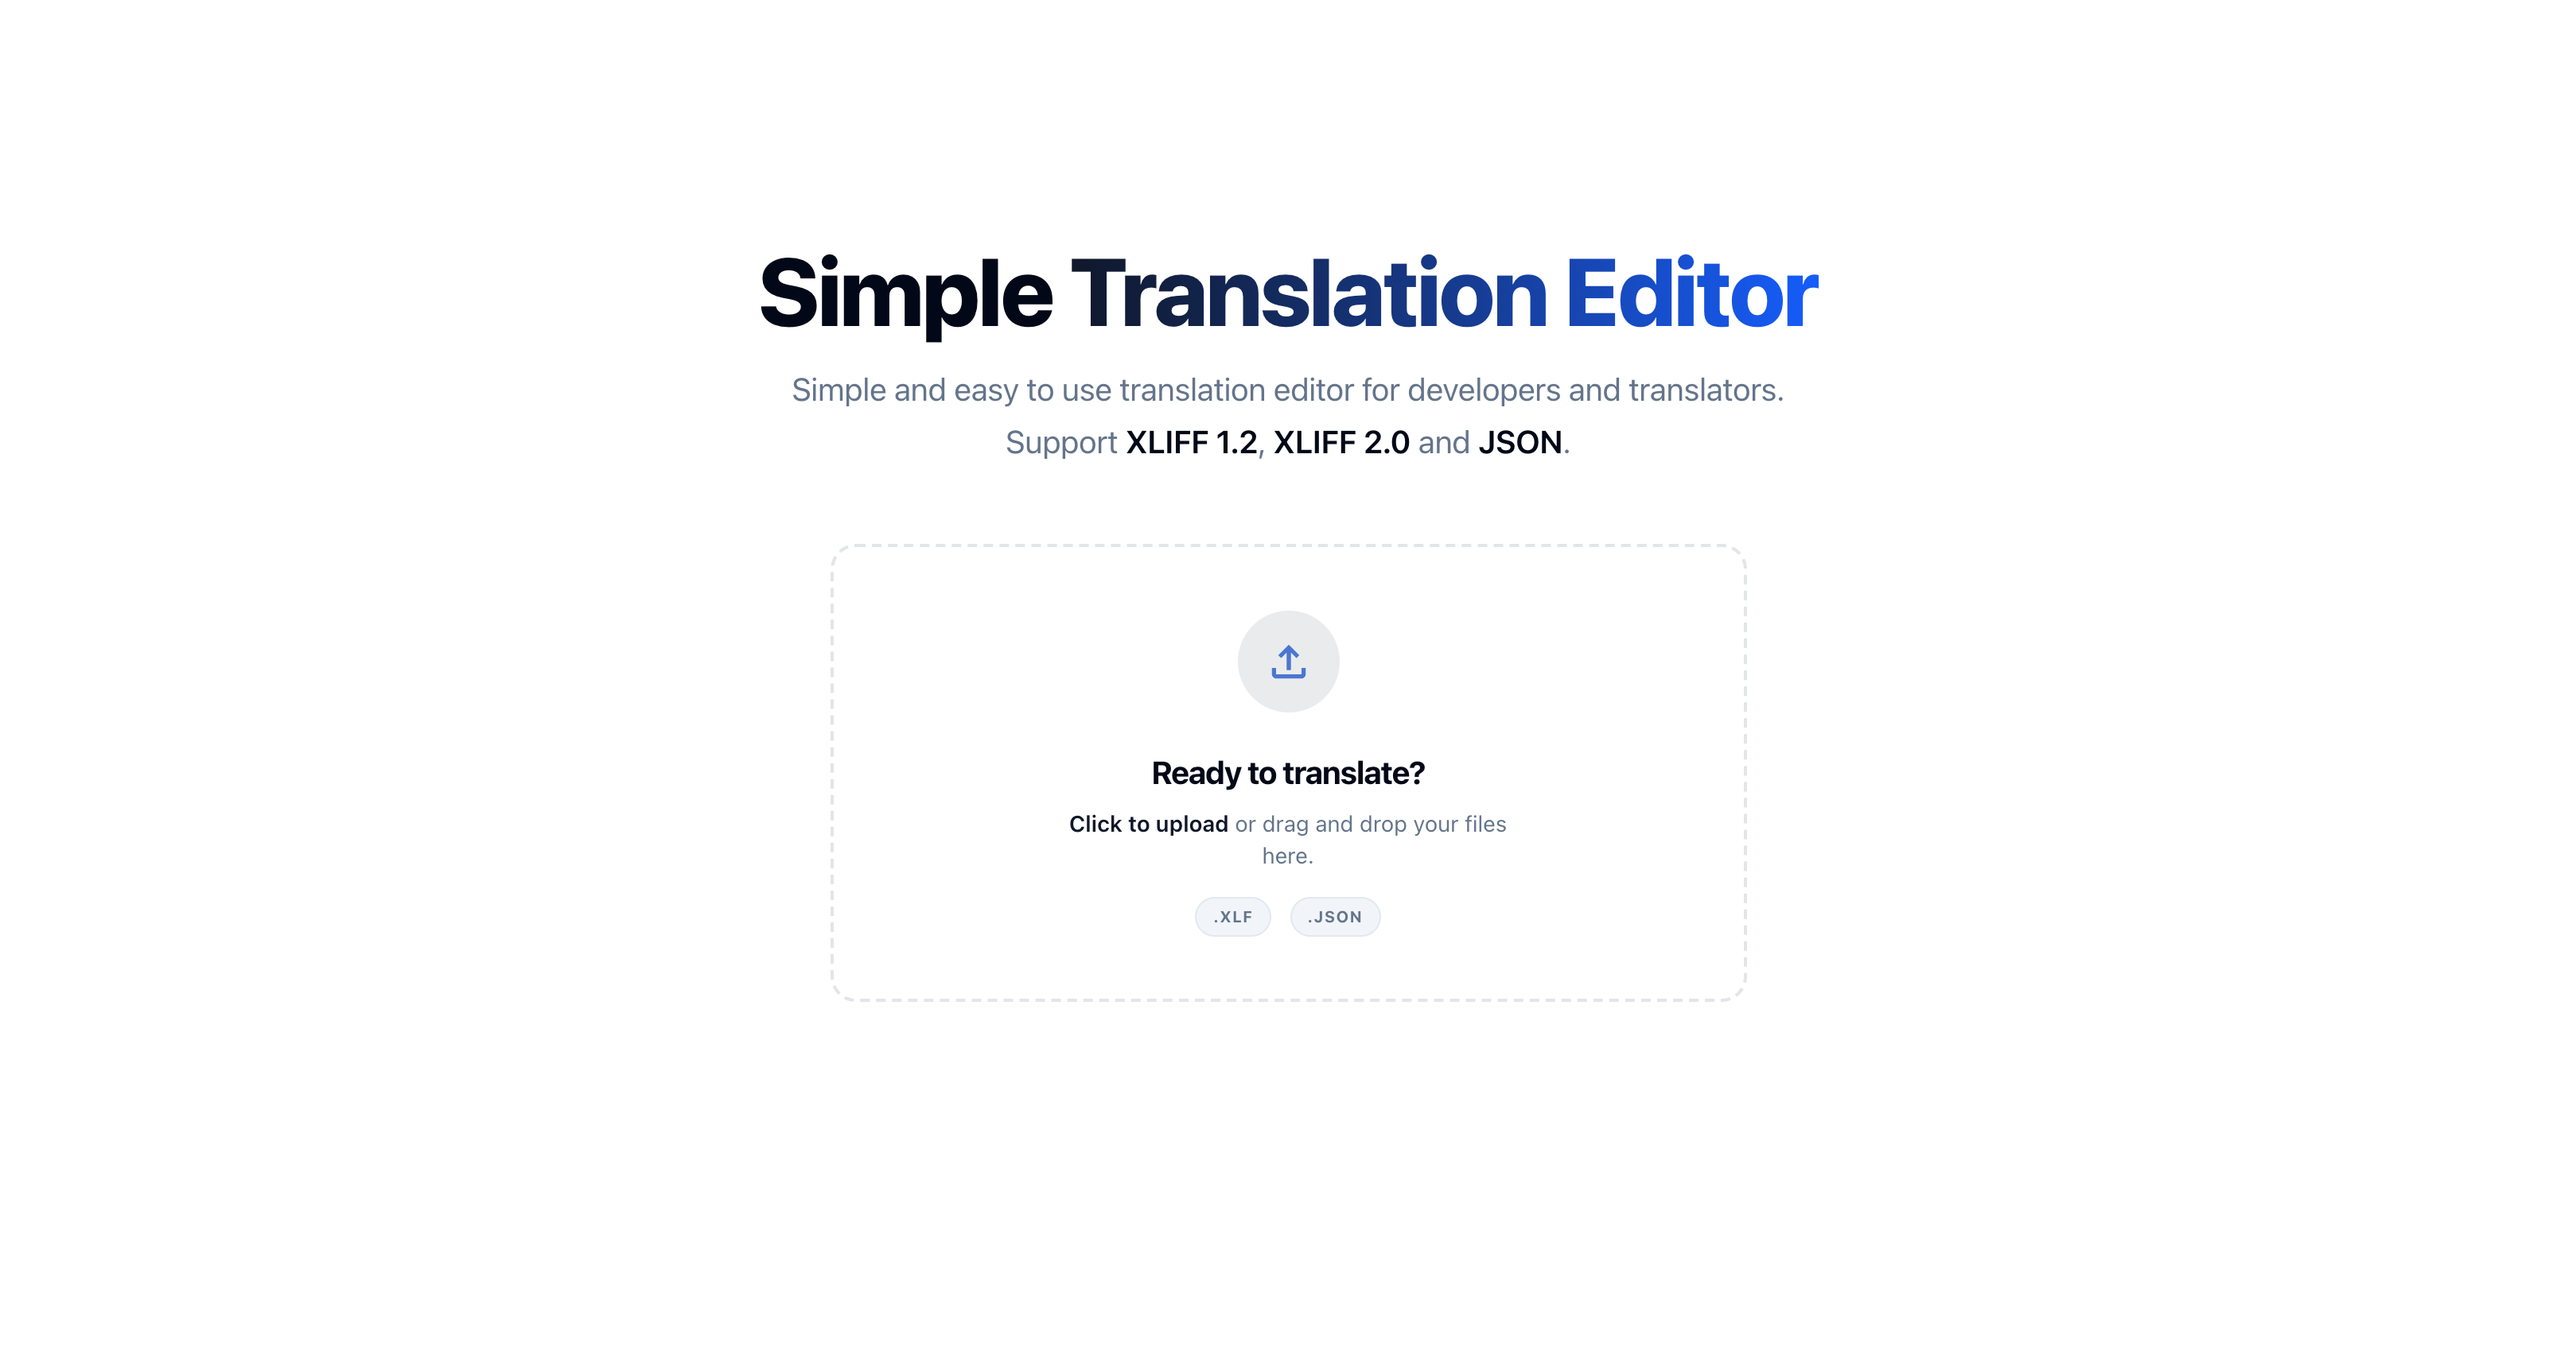
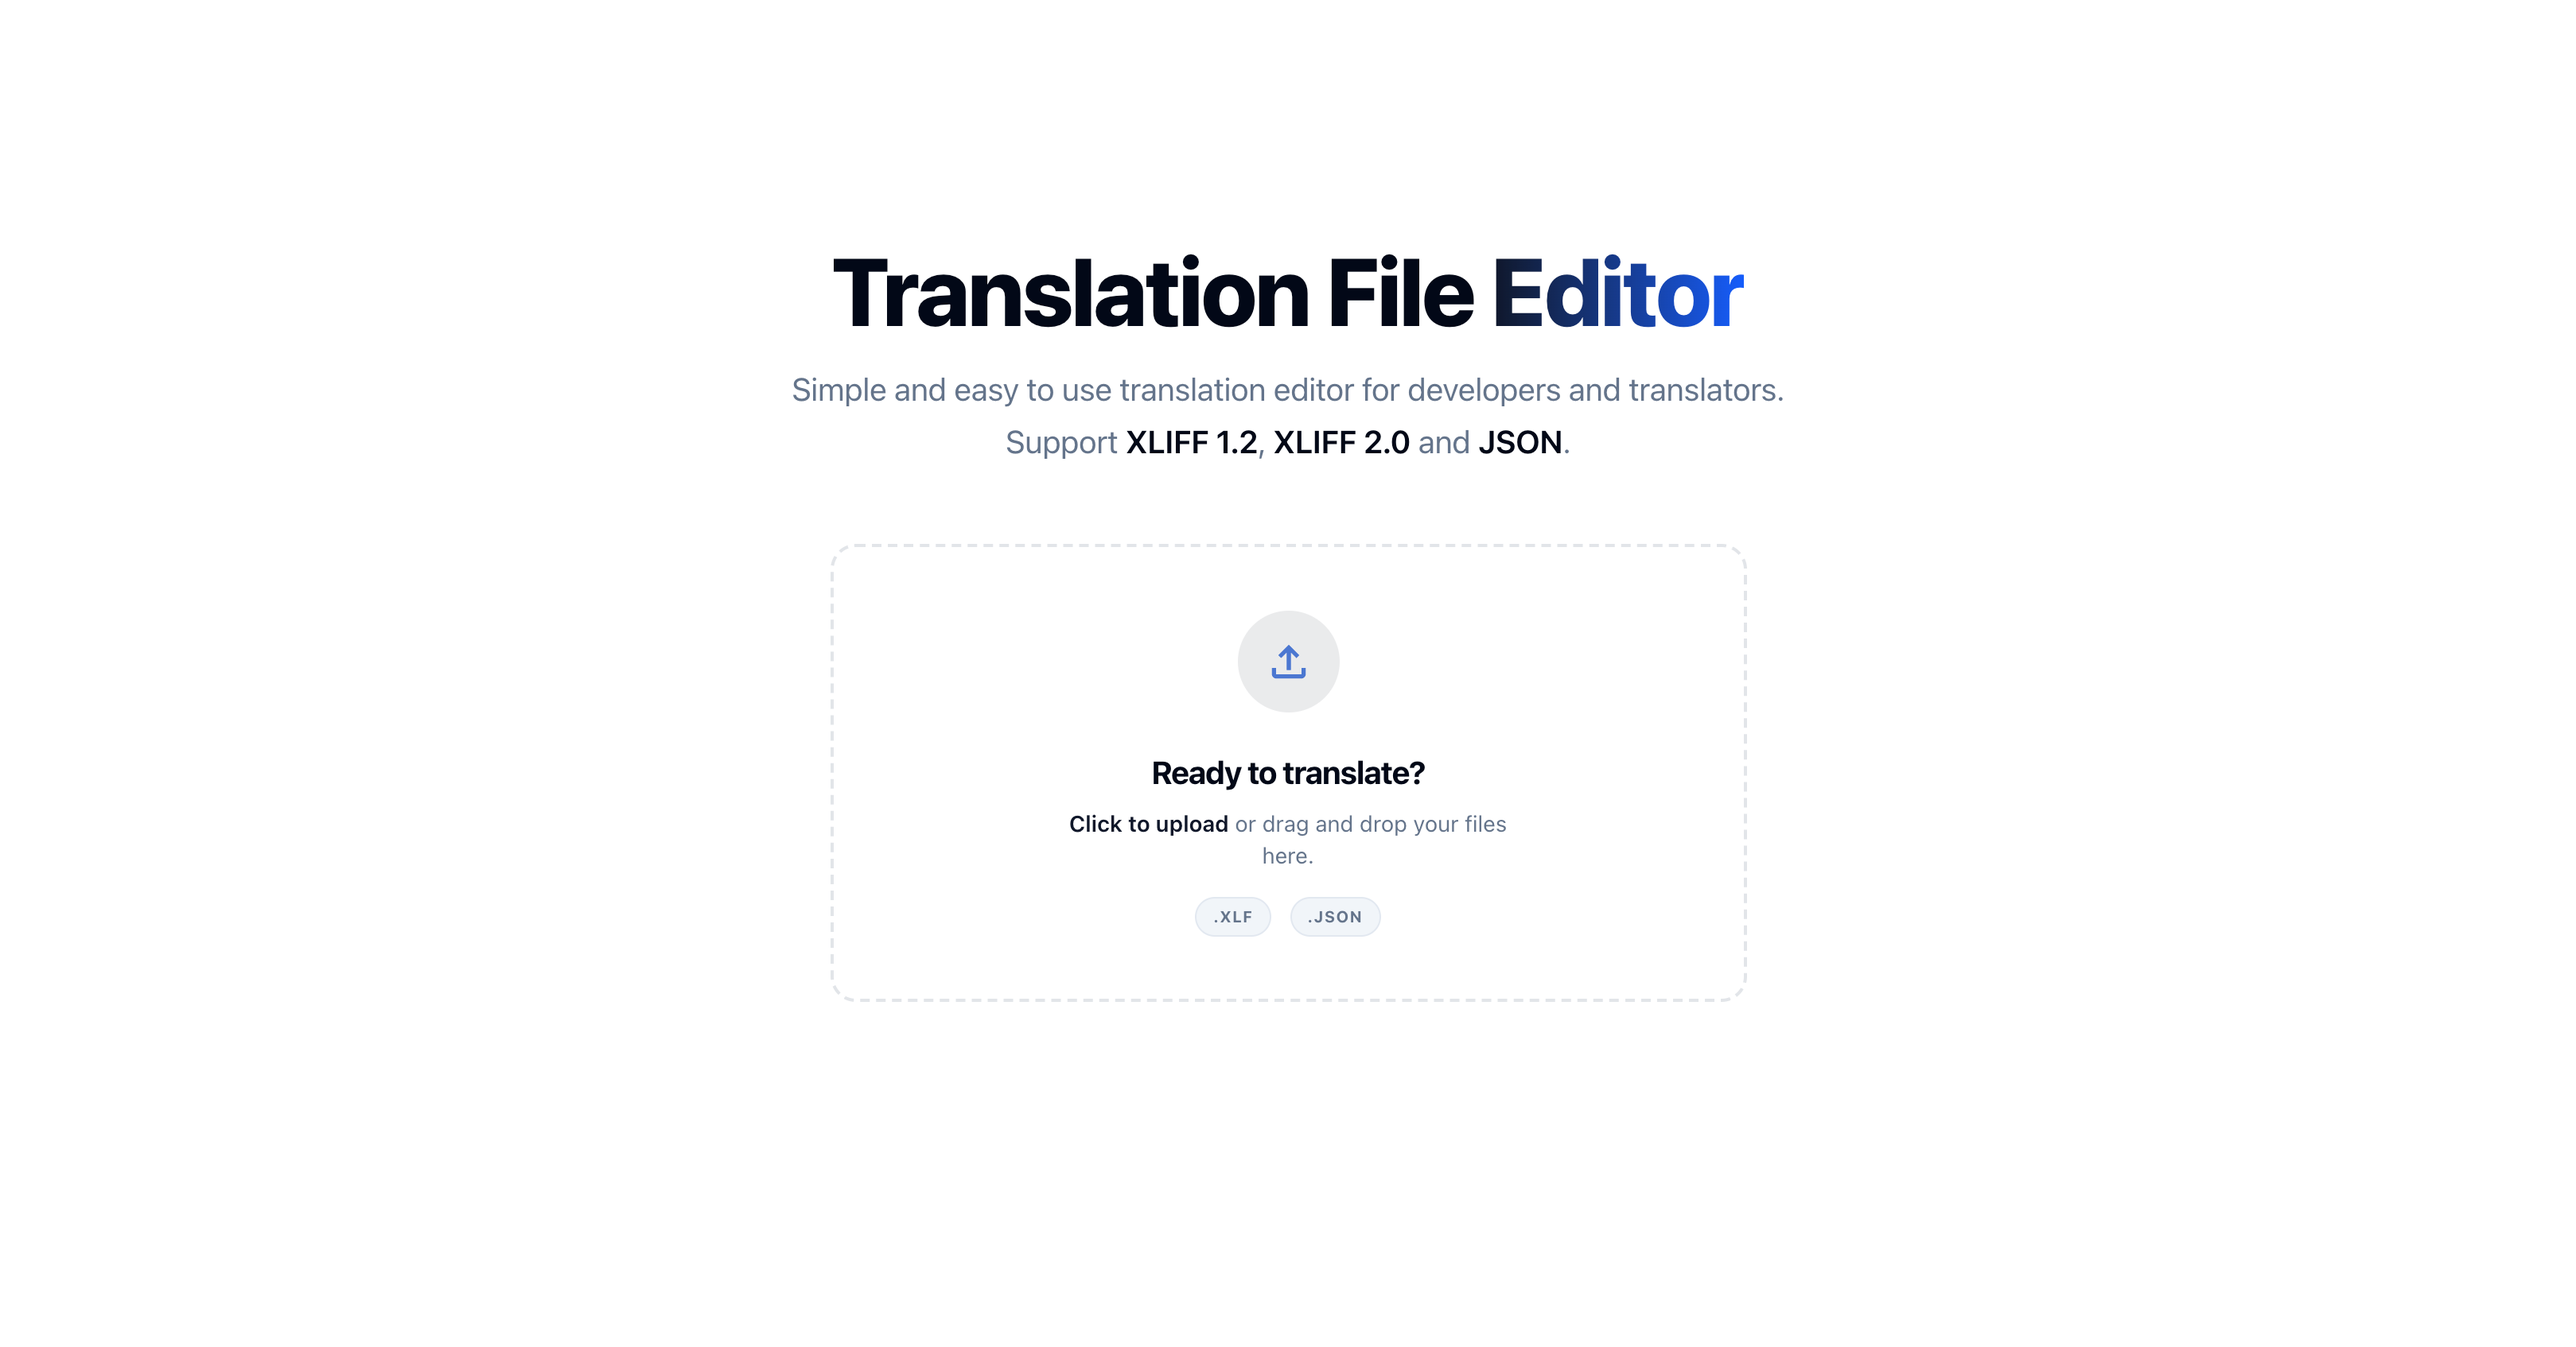
doc: update screenshot

Changed region(s): [[0.2807, 0.1842, 0.7174, 0.2456]]

diff --git a/src/app/translation-editor/feature/landing-screen/landing-screen.component.ts b/src/app/translation-editor/feature/landing-screen/landing-screen.component.ts
@@ -11,7 +11,7 @@ import { FileUploadComponent } from '../../ui/file-upload/file-upload.component'
         <!-- Hero Section -->
         <div class="mb-12 space-y-4">
           <h1 class="text-5xl md:text-6xl font-extrabold tracking-tight text-foreground">
-            Simple <span class="bg-clip-text text-transparent bg-gradient-to-r from-primary to-blue-600">Translation Editor</span>
+            Translation File <span class="bg-clip-text text-transparent bg-gradient-to-r from-primary to-blue-600">Editor</span>
           </h1>
           <p class="text-xl text-muted-foreground max-w-2xl mx-auto leading-relaxed">
             Simple and easy to use translation editor for developers and translators.<br />
